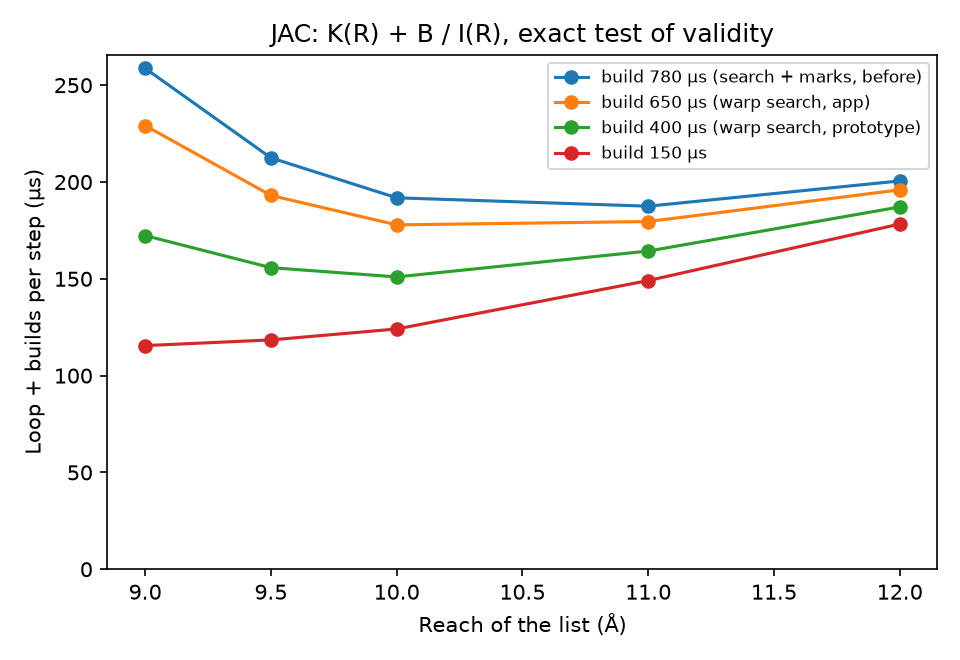
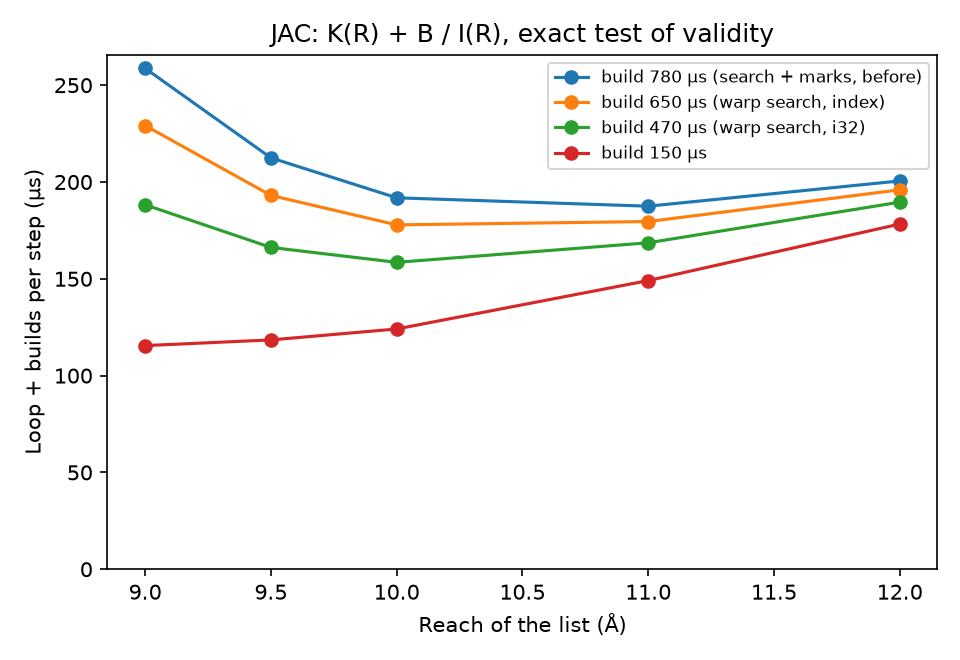
Count in i32 in the search of the neighbor matrix, with the partners of the excluded pairs in registers
With index, 64 bits on the device, the kernel needed more than 64 registers
and spilled; in i32 it uses 56 and takes 430 us a build on JAC where it took
612, as a CUDA program of the same search does. The partners of the
excluded pairs of a particle are held one per lane and compared by shuffles
when a neighbor's number lies between the least and the greatest of them.

JAC, RTX 3090: 381 to 402 ns/day; the best pairlist_distance moves from 10
to 9.5 A.

diff --git a/scripts/experiments/neighbor-structures/plot.py b/scripts/experiments/neighbor-structures/plot.py
@@ -91,7 +91,7 @@ fig.savefig(os.path.join(out, "search.png"), dpi=150)
 # 3. The time per step of the loop and the builds, K(R) + B / I(R), from
 # the loop of the prototype and the intervals that the app measured.
 intervals = sorted((float(r["reach"]), float(r["steps_between_builds"]))
-                   for r in scan if r["label"].startswith("after")
+                   for r in scan if r["label"].startswith("warp search in i32")
                    and r["steps_between_builds"]) or sorted(
     (float(r["reach"]), float(r["value"])) for r in reference
     if r["quantity"] == "steps between builds")
@@ -110,8 +110,8 @@ def interval(reach):
 loop = series("pairs", "matrix 16 lanes")
 fig, ax = plt.subplots(figsize=(6.4, 4.4))
 for build, label in [(780, "build 780 µs (search + marks, before)"),
-                     (650, "build 650 µs (warp search, app)"),
-                     (400, "build 400 µs (warp search, prototype)"),
+                     (650, "build 650 µs (warp search, index)"),
+                     (470, "build 470 µs (warp search, i32)"),
                      (150, "build 150 µs")]:
     points = [(r, k + build / interval(r)) for r, k in loop
               if interval(r) is not None]

diff --git a/docs/neighbors-m0.md b/docs/neighbors-m0.md
@@ -178,7 +178,8 @@ the neighbors that the ballot keeps are looked up.
 | A thread per particle, as before (2026-09-30) | 520 in the app, with 180 more for a kernel that marked the excluded pairs with a thread per entry of the matrix |
 | A thread per row of cells of a particle, counted and then filled (the former split search) | Slower on JAC than a thread per particle |
 | A warp per particle, in a prototype | 340 to 390; 440 with the excluded pairs |
-| A warp per particle with the excluded pairs, in the app (now) | 612, and no kernel for the marks |
+| A warp per particle with the excluded pairs, in the app, counting in `index` (64 bits) | 612, and no kernel for the marks: 64 registers and spills |
+| The same, counting in `i32`, the partners of the excluded pairs in registers (now) | 430 (the first build of a run: 653 before), 56 registers and no spills |
 | A block per cell, the runs of cells in shared memory, in a prototype | 425 to 435 |
 
 The block per cell reads a run once for all the particles of the cell,
@@ -192,6 +193,15 @@ step of 32 tests to visit, and its particles one step for every 32
 (`mdrt_gpu_cell_width`). With a thread per particle the cost of a row was
 that of 12 particles, and the cells were a third of the reach; for the
 warp that width took 846 µs on JAC, half the reach 612.
+
+The kernel counts in `i32`: the numbers of the particles, of the cells,
+and of the entries of a row. With `index`, which is 64 bits on the
+device, it needed more than 64 registers and spilled, and took 612 µs
+where a CUDA program of the same search took 440. The partners of the
+excluded pairs of a particle are held one per lane and compared by
+shuffles, and only when a neighbor's number lies between the least and
+the greatest of them; a particle with more than 32 compares the rest in
+memory.
 
 ### 2.6 Plan parameters
 

diff --git a/scripts/experiments/neighbor-structures/README.md b/scripts/experiments/neighbor-structures/README.md
@@ -45,12 +45,14 @@ MDIR_BENCH_DIR=~/opt/benchmarks/amber CUDA_VISIBLE_DEVICES=0 \
    with cells of half the reach or wider; a block per cell, which reads
    each run once for all the particles of the cell, is no faster. The
    excluded pairs, entered in the search, cost about 50 µs.
-4. **In the app** the warp search with the excluded pairs takes 612 µs a
-   build (the prototype: 440), and the kernel that marked the excluded
-   pairs (180 µs) is gone; JAC went from 374 to 381 ns/day, and the best
-   `pairlist_distance` stays 10 Å (`scan.png`; its "before" curve was
-   measured before D81 and D83, so the gap between the curves is not the
-   search alone).
+4. **In the app** the warp search with the excluded pairs took 612 µs a
+   build (the prototype: 440) while it counted in `index`, 64 bits on the
+   device, which took more than 64 registers and spilled; counting in
+   `i32`, with the partners of the excluded pairs in registers, it takes
+   430 µs. The kernel that marked the excluded pairs (180 µs) is gone.
+   JAC went from 374 to 381 and then to 402 ns/day, and the best
+   `pairlist_distance` moved from 10 to 9.5 Å (`scan.png`; its first curve
+   was measured before D81 and D83, so the gap to it is not the search
+   alone).
 
-The gap between the search in the app and in the prototype, and a build
-of 150 µs, are open.
+A build of 150 µs is open: the search is bound by its tests.
